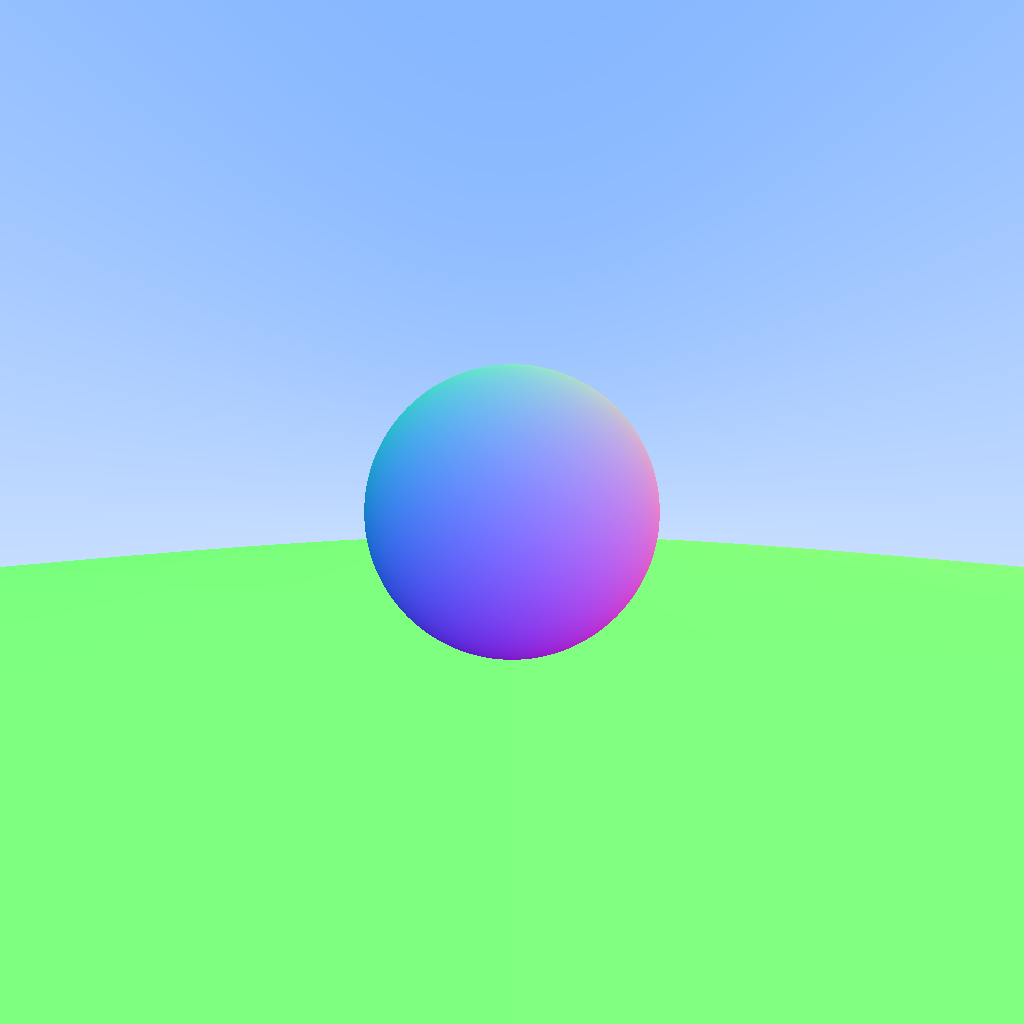
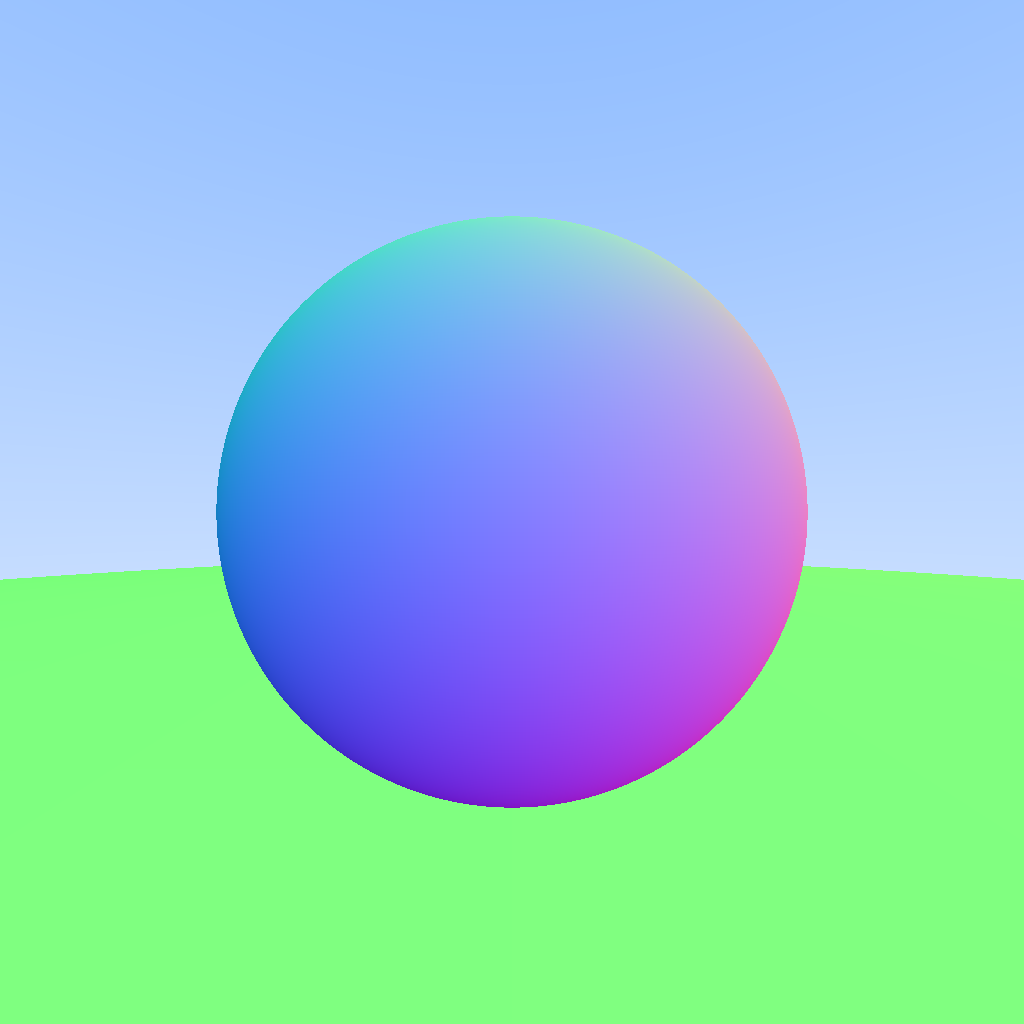
Refactor Camera a bit

Changed region(s): [[0.0, 0.1875, 1.0, 0.8125]]

diff --git a/src/camera.rs b/src/camera.rs
@@ -6,6 +6,7 @@ use crate::{
     ray::Ray,
 };
 
+#[derive(Debug)]
 pub struct Camera {
     position: DVec3,
     viewport_u: DVec3,
@@ -15,16 +16,16 @@ pub struct Camera {
 
 // NOTE: Shouldn't be here but will keep for now
 fn to_rgb(data: DVec3) -> Rgb<u8> {
-    Rgb(data.to_array().map(|x| (x * 255.999).floor() as u8))
+    Rgb(data
+        .to_array()
+        .map(|x| (x.clamp(0.0, 0.999) * 256.0).floor() as u8))
 }
 
 impl Camera {
-    pub fn new(
-        focal_length: f64,
-        viewport_width: f64,
-        viewport_height: f64,
-        position: DVec3,
-    ) -> Self {
+    pub fn new(focal_length: f64, aspect_ratio: f64, vfov: f64, position: DVec3) -> Self {
+        let viewport_height = (vfov.to_radians() / 2.0).tan() * 2.0;
+        let viewport_width = viewport_height * aspect_ratio;
+
         // These must all be perpendicular to each other.
         // u: right
         // v: down

diff --git a/src/main.rs b/src/main.rs
@@ -11,8 +11,6 @@ mod testing;
 
 const WIDTH: u32 = 1024;
 const HEIGHT: u32 = 1024;
-const VIEWPORT_WIDTH: f64 = 4.0;
-const VIEWPORT_HEIGHT: f64 = VIEWPORT_WIDTH * HEIGHT as f64 / WIDTH as f64;
 
 fn main() {
     let mut world = HittableList::new();
@@ -20,7 +18,8 @@ fn main() {
     world.add(Sphere::new(dvec3(0.0, 0.0, -1.0), 0.5));
     world.add(Sphere::new(dvec3(0.0, -100.5, -1.0), 100.0));
 
-    let cam = Camera::new(1.0, VIEWPORT_WIDTH, VIEWPORT_HEIGHT, DVec3::ZERO);
+    let aspect_ratio = WIDTH as f64 / HEIGHT as f64;
+    let cam = Camera::new(1.0, aspect_ratio, 90.0, DVec3::ZERO);
     let img = cam.render(&world, WIDTH, HEIGHT);
     img.save("out.png").unwrap();
 }
